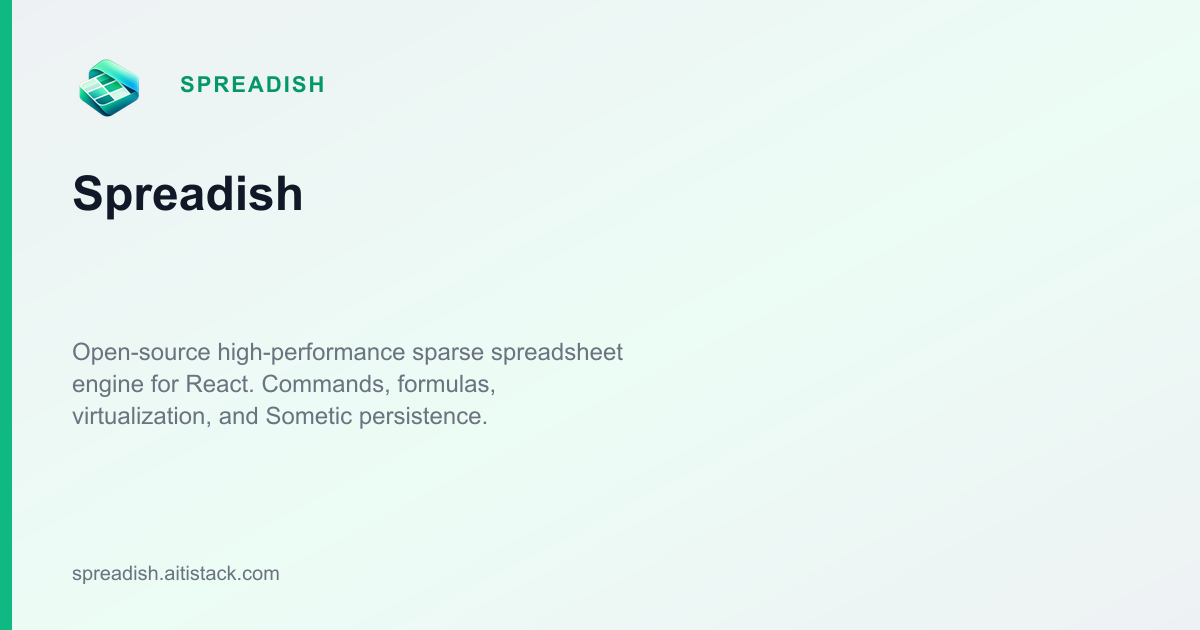
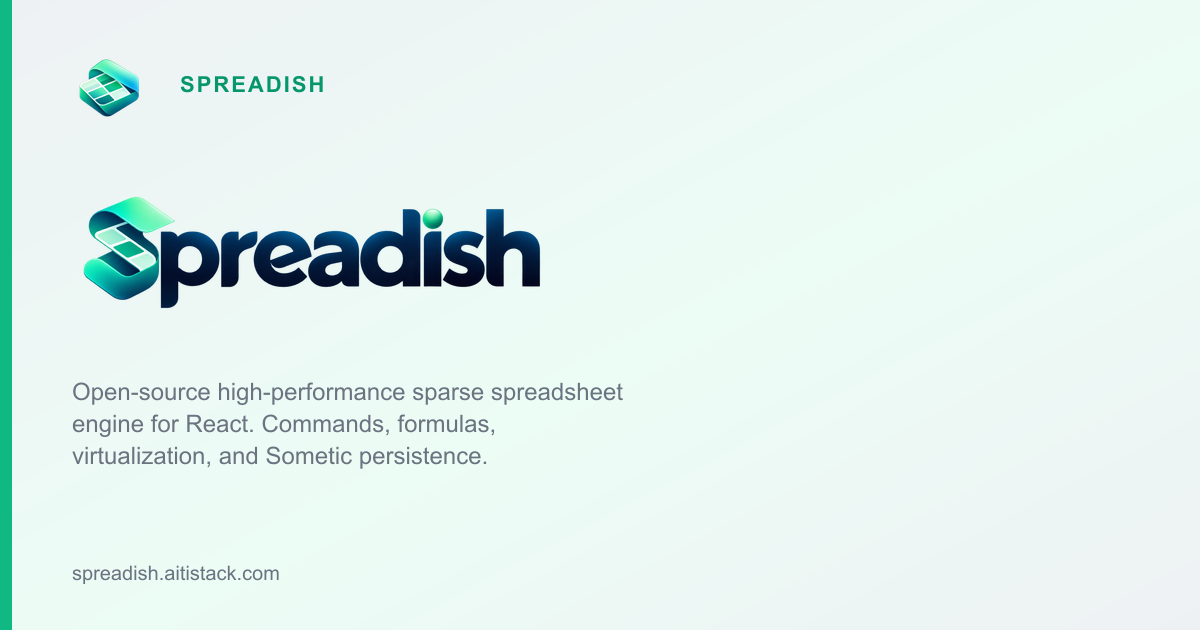
docs: use Spreadish wordmark as home OG title
Replace the generated home OG heading text with the brand wordmark image while keeping the small header logo.

Changed region(s): [[0.0617, 0.2714, 0.4625, 0.4825], [0.0617, 0.6032, 0.5242, 0.754], [0.0617, 0.5429, 0.5242, 0.573]]

diff --git a/apps/docs/scripts/generate-seo.ts b/apps/docs/scripts/generate-seo.ts
@@ -258,8 +258,15 @@ function wrapSvgText(text: string, maxChars: number): string[] {
     return lines.slice(0, 3);
 }
 
-async function generateOgImage(page: SitePage, outPath: string, iconBuffer: Buffer): Promise<void> {
-    const titleLines = wrapSvgText(page.title, 28);
+async function generateOgImage(
+    page: SitePage,
+    outPath: string,
+    iconBuffer: Buffer,
+    wordmarkBuffer?: Buffer,
+): Promise<void> {
+    // Home OG uses the full brand wordmark as the page title (not the small header logo).
+    const useWordmarkTitle = Boolean(wordmarkBuffer) && page.path === '/';
+    const titleLines = useWordmarkTitle ? [] : wrapSvgText(page.title, 28);
     const descLines = wrapSvgText(page.description, 52);
     const titleSvg = titleLines
         .map(
@@ -267,10 +274,12 @@ async function generateOgImage(page: SitePage, outPath: string, iconBuffer: Buff
                 `<text x="72" y="${210 + index * 58}" fill="#111827" font-size="48" font-weight="700" font-family="Arial, Helvetica, sans-serif">${escapeHtml(line)}</text>`,
         )
         .join('');
+    // Wordmark (~480×160) sits where the heading was; push description down for home.
+    const descTop = useWordmarkTitle ? 400 : 360;
     const descSvg = descLines
         .map(
             (line, index) =>
-                `<text x="72" y="${360 + index * 32}" fill="#6b7280" font-size="24" font-family="Arial, Helvetica, sans-serif">${escapeHtml(line)}</text>`,
+                `<text x="72" y="${descTop + index * 32}" fill="#6b7280" font-size="24" font-family="Arial, Helvetica, sans-serif">${escapeHtml(line)}</text>`,
         )
         .join('');
 
@@ -293,10 +302,16 @@ async function generateOgImage(page: SitePage, outPath: string, iconBuffer: Buff
 
     const base = sharp(Buffer.from(svg));
     const icon = await sharp(iconBuffer).resize(72, 72).png().toBuffer();
-    await base
-        .composite([{ input: icon, left: 72, top: 52 }])
-        .png()
-        .toFile(outPath);
+    const layers: sharp.OverlayOptions[] = [{ input: icon, left: 72, top: 52 }];
+    if (useWordmarkTitle && wordmarkBuffer) {
+        // Keep aspect of spreadish.png (2172×724); place as the page title/heading.
+        const wordmark = await sharp(wordmarkBuffer)
+            .resize(480, 160, { fit: 'contain', background: { r: 0, g: 0, b: 0, alpha: 0 } })
+            .png()
+            .toBuffer();
+        layers.push({ input: wordmark, left: 72, top: 175 });
+    }
+    await base.composite(layers).png().toFile(outPath);
 }
 
 async function generateOgImages(): Promise<void> {
@@ -320,14 +335,34 @@ async function generateOgImages(): Promise<void> {
         throw new Error(`generate-seo: missing brand icon (tried ${iconCandidates.join(', ')})`);
     }
 
+    const wordmarkCandidates = [
+        path.join(docsRoot, 'src/assets/previews/spreadish.png'),
+        path.join(docsRoot, 'src/assets/spreadish.png'),
+        path.join(publicDir, 'spreadish.png'),
+    ];
+    let wordmarkBuffer: Buffer | null = null;
+    for (const candidate of wordmarkCandidates) {
+        try {
+            wordmarkBuffer = Buffer.from(await readFile(candidate));
+            break;
+        } catch {
+            // try next
+        }
+    }
+    if (!wordmarkBuffer) {
+        throw new Error(
+            `generate-seo: missing brand wordmark (tried ${wordmarkCandidates.join(', ')})`,
+        );
+    }
+
     for (const page of SITE_PAGES) {
         const slug = ogSlug(page);
-        await generateOgImage(page, path.join(ogDir, `${slug}.png`), iconBuffer);
+        await generateOgImage(page, path.join(ogDir, `${slug}.png`), iconBuffer, wordmarkBuffer);
     }
 
     // Site-wide default
     const home = SITE_PAGES.find((p) => p.path === '/')!;
-    await generateOgImage(home, path.join(publicDir, 'og.png'), iconBuffer);
+    await generateOgImage(home, path.join(publicDir, 'og.png'), iconBuffer, wordmarkBuffer);
 }
 
 function injectHead(html: string, page: SitePage): string {
